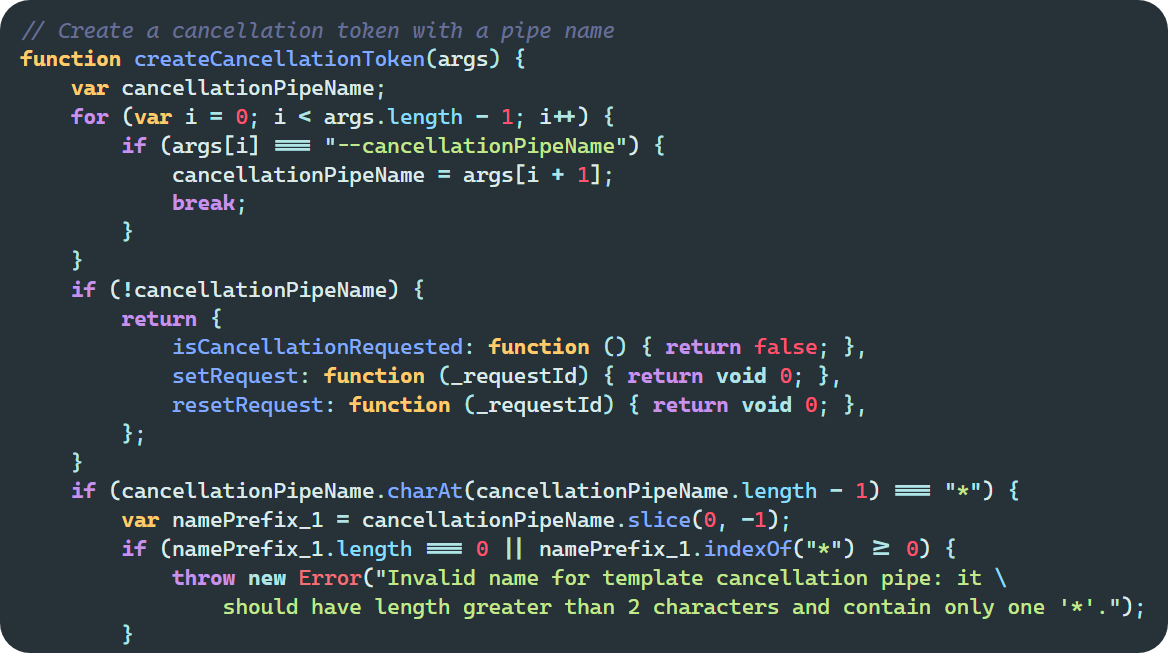
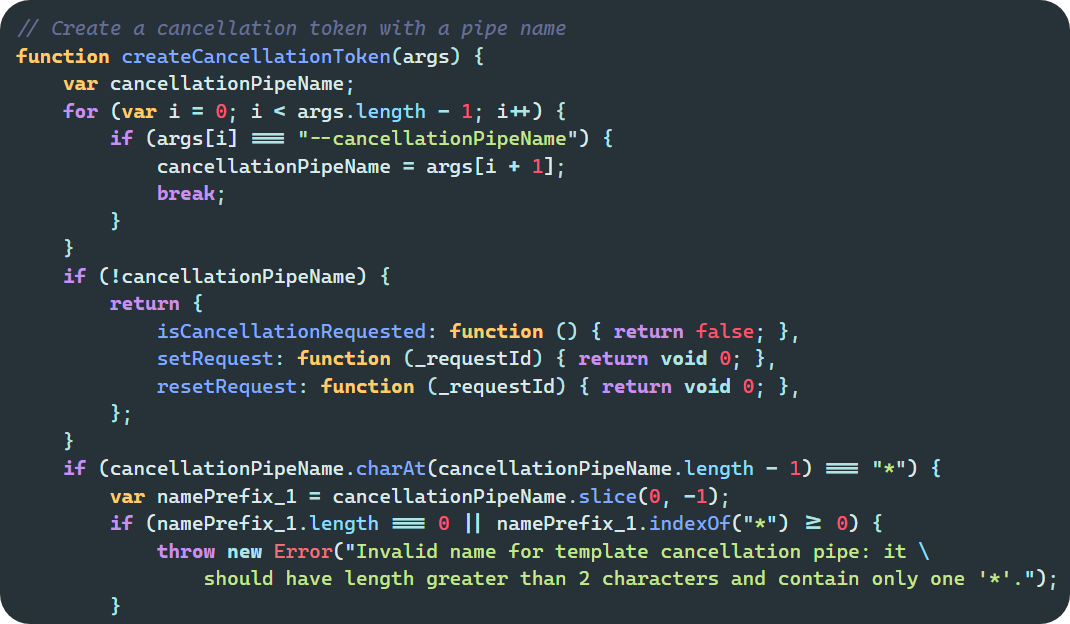
improve images

diff --git a/README.md b/README.md
@@ -2,7 +2,7 @@
 
 This is a collection of popular themes adapted to follow the [Ansi 16 syntax highlighting guidelines](https://github.com/chtenb/ansi16).
 
-The font used in the screenshots is [Cascadia Code](https://github.com/microsoft/cascadia-code).
+The font used in the screenshots is [Cascadia Code](https://github.com/microsoft/cascadia-code) (font size 16).
 
 ## Noctis Lux Ansi 16
 
